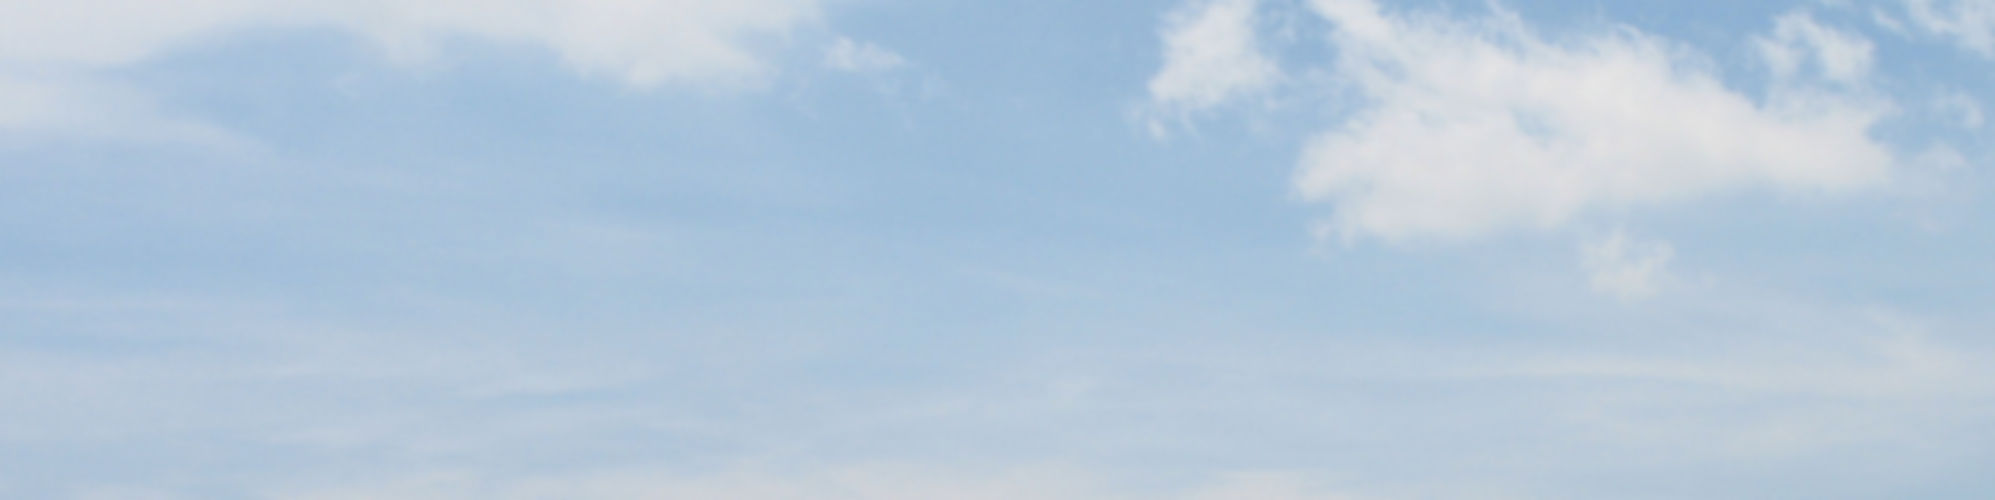
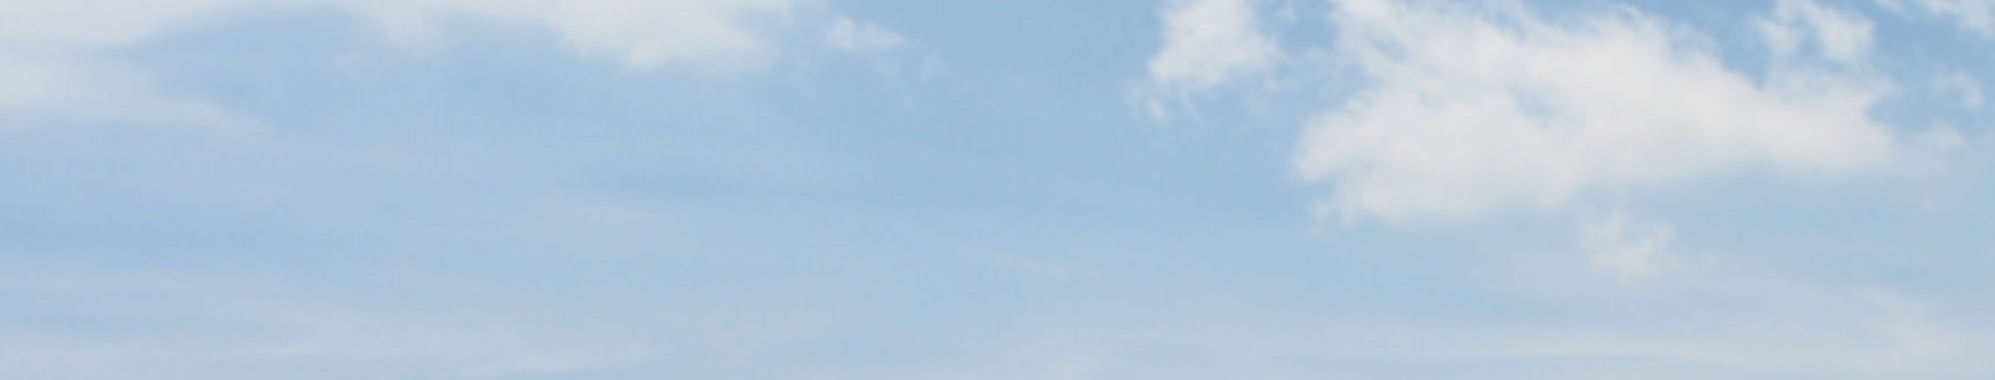
fix: Reduce image size, align title

diff --git a/index.min.html b/index.min.html
@@ -1,1 +1,1 @@
-<!DOCTYPE html> <html lang=en> <head> <meta http-equiv=Content-Type content="text/html; charset=utf-8"> <meta name=viewport content="width=device-width, initial-scale=1.0"> <meta name=description content="Falcon is a really fast, light-weight framework for building cloud APIs. It tries to do as little as possible while remaining highly effective."> <meta name=viewport content="width=device-width, initial-scale=1.0"> <link rel=icon type="image/x-icon" href="favicon.ico"> <link href="css/bootstrap.min.css" rel=stylesheet type="text/css"> <link href="css/styles.css" rel=stylesheet type="text/css"> <title> Falcon - The high-performance python WSGI framework </title> </head> <body> <a href="https://github.com/racker/falcon" target=_blank><img style="position: absolute; top: 0; left: 0; border: 0; z-index:10" src="https://s3.amazonaws.com/github/ribbons/forkme_left_red_aa0000.png" alt="Fork me on GitHub"></a> <div id=myCarousel class="carousel slide"> <div class=carousel-inner> <div class="active item"> <div class=cover> <img src="http://c420059.r59.cf1.rackcdn.com/assets/images/falcon.png" class=pull-right> </div> <div class=container> <div class=carousel-caption> <h1> Falcon </h1> <p class=lead> The high-performance cloud API framework. </p> </div> </div> </div> </div> </div> <div class=background-strip></div> <div id=nav class="container marketing"> <div class=row> <div class=span4> <img class=img-circle data-src="holder.js/140x140"> <h2> Design </h2> <p> Light, Fast, and Flexible </p> <p> <a class=btn href="#Features">View details »</a> </p> </div> <div class=span4> <img class=img-circle data-src="holder.js/140x140"> <h2> Benefits </h2> <p> Performance, Freedom and Reliability </p> <p> <a class=btn href="#Benefits">View details »</a> </p> </div> <div class=span4> <img class=img-circle data-src="holder.js/140x140"> <h2> Benchmarks </h2> <p> 30x More Requests </p> <p> <a class=btn href="#Metrics">View details »</a> </p> </div> </div> </div> <div class="container marketing"> <hr class=featurette-divider> <div class=featurette> <a id=Features></a> <img class="featurette-image pull-right" src=""> <h2 class=featurette-heading> Design </h2> <p class=lead> <strong>Light.</strong> Only the essentials are included, with <em>six</em> the only dependency beyond the standard library. We work to keep the code lean, making Falcon easier to test, optimize, and deploy. </p> <p class=lead> <strong>Fast.</strong> Cloud APIs need to turn around requests quickly, and make efficient use of hardware. Falcon processes requests several times faster than other popular web frameworks. </p> <p class=lead> <strong>Flexible.</strong> Falcon can be deployed in a variety of ways, depending on your needs. The framework speaks WSGI, and works great with Python 2.6 and 2.7, PyPy, and Python 3.3. There's no tight coupling with any async framework, leaving you free to mix-and-match what you need for your web service. </p> <p class=lead> <a href="https://github.com/racker/falcon/blob/master/README.md#install" alt='falcon web framework install'>Try the Falcon web framework</a>. </p> </div> <hr class=featurette-divider> <div class=featurette> <a id=Benefits></a> <img alt="" class="featurette-image pull-right" src=""> <h2 class=featurette-heading> Benefits </h2> <p class=lead> <strong>Performance.</strong> Unlike other Python web frameworks, Falcon won't bottleneck your API's performance. Many frameworks max out at serving simple "hello world" requests at a few thousand req/sec, while Falcon can easily serve up to <strong>30 times</strong> as many on the same hardware. Even Bottle, one of the fastest web frameworks we tested, takes at least twice as long to serve requests compared to Falcon. </p> <p class=lead> <strong>Freedom.</strong> Falcon isn't very opinionated. In other words, the framework leaves a lot of decisions and implementation details to you, the API developer, which means you will need to use your head a little more than other web frameworks, and probably write a little more code. On the other hand, this gives you a lot of freedom to <strong>customize and tune</strong> your implementation in order to create a solution that stands out from the crowd. </p> <p class=lead> <strong>Reliability.</strong> Falcon doesn't include a lot of cruft that is simply unnecessary when building web services. Less code and fewer dependencies means a smaller attack surface, lower memory usage, and fewer places for bugs to hide. Our private Jenkins build fails at anything less than <strong>100% code coverage</strong>, and we use <a href="https://travis-ci.org/racker/falcon">Travis CI</a> to keep ourselves honest. </p> <p class=lead> If you're still not convinced, check out this <a href="http://www.thepartyanimal-blog.org/wp-content/uploads/2012/04/pancake_bunny.jpg" target=_blank rel=nofollow>bunny</a> with a pancake on its head. </p> <p class=lead></p> </div> <hr class=featurette-divider> <div class=featurette> <a id=Metrics></a> <img class="featurette-image pull-right" src=""> <h2 class=featurette-heading> Benchmarks </h2> <p class=lead> <strong>Scenario.</strong> The benchmark acts as a WSGI server and performs a GET request directly on each framework's app. Each app parses a route template with a single embedded parameter, reads a query parameter and a header from the request data, sets an x-header on the response, and finally returns a 10 KiB plain-text body, randomly generated. </p> <p class=lead> <strong>Methodology.</strong> 50,000 iterations were run per trial, and the best time was taken for each framework over 3 trials. The order in which the frameworks were tested was randomized for each trial. Garbage collection was enabled as it would be in a production environment, and a full collection was forcefully triggered before each trial. Finally, results were calculated using the Decimal class, and rounded to the nearest whole number. </p> <p class=lead> <strong>Platform.</strong> The benchmark was executed with Python 2.7.3, running under Mac OS X 10.8.2 on a mid-2010 MBP (2.66 GHz Intel Core i7). </p> <p class=lead> <strong>Results.</strong> </p> <table class=benchmarks> <tr> <th> Framework </th> <th> req/sec </th> <th> μs/req </th> <th> Performance </th> </tr> <tr class=highlight> <td> Falcon with Cython </td> <td> 44,838 </td> <td> 22 </td> <td> 30x </td> </tr> <tr> <td> Falcon </td> <td> 36,638 </td> <td> 27 </td> <td> 24x </td> </tr> <tr> <td> Bottle </td> <td> 16,475 </td> <td> 61 </td> <td> 11x </td> </tr> <tr> <td> Werkzeug </td> <td> 8,742 </td> <td> 114 </td> <td> 6x </td> </tr> <tr> <td> Flask </td> <td> 4,309 </td> <td> 232 </td> <td> 3x </td> </tr> <tr> <td> Pecan </td> <td> 3,773 </td> <td> 265 </td> <td> 2x </td> </tr> <tr> <td> CherryPy </td> <td> 1,539 </td> <td> 650 </td> <td> 1x </td> </tr> </table> </div> <hr class=featurette-divider> <footer> <p class=pull-right> <a href="#">Back to top</a> </p> <p> © 2013 Rackspace Hosting. Falcon photo courtesy of <a href="https://commons.wikimedia.org/wiki/File:Brown-Falcon,-Vic,-3.1.2008.jpg">John O'Neill</a>. </p> </footer> </div> </body> </html>
+<!DOCTYPE html><html lang="en"><head><meta http-equiv="Content-Type" content="text/html;charset=utf-8"><meta name="viewport" content="width=device-width, initial-scale=1.0"><meta name="description" content="Falcon is a really fast, light-weight framework for building cloud APIs. It tries to do as little as possible while remaining highly effective."><meta name="viewport" content="width=device-width, initial-scale=1.0"><link rel="icon" type="image/x-icon" href="favicon.ico"><link href="css/bootstrap.min.css" rel="stylesheet" type="text/css"><link href="css/styles.css" rel="stylesheet" type="text/css"><title>Falcon - The high-performance python WSGI framework </title></head><body><a href="https://github.com/racker/falcon" target="_blank"><img style="position: absolute;top: 0;left: 0;border: 0;z-index:10" src="https://s3.amazonaws.com/github/ribbons/forkme_left_red_aa0000.png" alt="Fork me on GitHub"></a><div id="myCarousel" class="carousel slide"><div class="carousel-inner"><div class="active item"><div class="cover"><img src="img/falcon.png" class="pull-right"></div><div class="container"><div class="carousel-caption"><h1> Falcon </h1><p class="lead"> The high-performance cloud API framework. </p></div></div></div></div></div><div class="background-strip"></div><div id="nav" class="container marketing"><div class="row"><div class="span4"><img class="img-circle" data-src="holder.js/140x140"><h2> Design </h2><p> Light, Fast, and Flexible </p><p><a class="btn" href="#Features">View details »</a></p></div><div class="span4"><img class="img-circle" data-src="holder.js/140x140"><h2> Benefits </h2><p> Performance, Freedom and Reliability </p><p><a class="btn" href="#Benefits">View details »</a></p></div><div class="span4"><img class="img-circle" data-src="holder.js/140x140"><h2> Benchmarks </h2><p> 30x More Requests </p><p><a class="btn" href="#Metrics">View details »</a></p></div></div></div><div class="container marketing"><hr class="featurette-divider"><div class="featurette"><a id="Features"></a><img class="featurette-image pull-right" src=""><h2 class="featurette-heading"> Design </h2><p class="lead"><strong>Light.</strong> Only the essentials are included, with <em>six</em> the only dependency beyond the standard library. We work to keep the code lean, making Falcon easier to test, optimize, and deploy. </p><p class="lead"><strong>Fast.</strong> Cloud APIs need to turn around requests quickly, and make efficient use of hardware. Falcon processes requests several times faster than other popular web frameworks. </p><p class="lead"><strong>Flexible.</strong> Falcon can be deployed in a variety of ways, depending on your needs. The framework speaks WSGI, and works great with Python 2.6 and 2.7, PyPy, and Python 3.3. There's no tight coupling with any async framework, leaving you free to mix-and-match what you need for your web service. </p><p class="lead"><a href="https://github.com/racker/falcon/blob/master/README.md#install" alt='falcon web framework install'>Try the Falcon web framework</a>. </p></div><hr class="featurette-divider"><div class="featurette"><a id="Benefits"></a><img alt="" class="featurette-image pull-right" src=""><h2 class="featurette-heading"> Benefits </h2><p class="lead"><strong>Performance.</strong> Unlike other Python web frameworks, Falcon won't bottleneck your API's performance under highly concurrent workloads. Even when requests are serialized, many frameworks max out at serving simple "hello world" requests at a few thousand req/sec, while Falcon can easily serve up to <strong>30 times</strong> as many on the same hardware. Even Bottle, one of the fastest web frameworks we tested, takes at least twice as long to serve requests compared to Falcon. </p><p class="lead"><strong>Freedom.</strong> Falcon isn't very opinionated. In other words, the framework leaves a lot of decisions and implementation details to you, the API developer, which means you will need to use your head a little more than other web frameworks, and probably write a little more code. On the other hand, this gives you a lot of freedom to <strong>customize and tune</strong> your implementation in order to create a solution that stands out from the crowd. </p><p class="lead"><strong>Reliability.</strong> Falcon doesn't include a lot of cruft that is simply unnecessary when building web services. Less code and fewer dependencies means a smaller attack surface, lower memory usage, and fewer places for bugs to hide. Our private Jenkins build fails at anything less than <strong>100% code coverage</strong>, and we use <a href="https://travis-ci.org/racker/falcon">Travis CI</a> to keep ourselves honest. </p><p class="lead"> If you're still not convinced, check out this <a href="http://www.thepartyanimal-blog.org/wp-content/uploads/2012/04/pancake_bunny.jpg" target="_blank" rel="nofollow">bunny</a> with a pancake on its head. </p><p class="lead"></p></div><hr class="featurette-divider"><div class="featurette"><a id="Metrics"></a><img class="featurette-image pull-right" src=""><h2 class="featurette-heading"> Benchmarks </h2><p class="lead"><strong>Scenario.</strong> The benchmark acts as a WSGI server and performs a GET request directly on each framework's app. Each app parses a route template with a single embedded parameter, reads a query parameter and a header from the request data, sets an x-header on the response, and finally returns a 10 KiB plain-text body, randomly generated. </p><p class="lead"><strong>Methodology.</strong> 50,000 iterations were run per trial, and the best time was taken for each framework over 3 trials. The order in which the frameworks were tested was randomized for each trial. Garbage collection was enabled as it would be in a production environment, and a full collection was forcefully triggered before each trial. Finally, results were calculated using the Decimal class, and rounded to the nearest whole number. </p><p class="lead"><strong>Platform.</strong> The benchmark was executed with Python 2.7.3, running under Mac OS X 10.8.2 on a mid-2010 MBP (2.66 GHz Intel Core i7). </p><p class="lead"><strong>Results.</strong></p><table class="benchmarks"><tr><th> Framework </th><th> req/sec </th><th> μs/req </th><th> Performance </th></tr><tr class="highlight"><td> Falcon with Cython </td><td> 44,838 </td><td> 22 </td><td> 30x </td></tr><tr><td> Falcon </td><td> 36,638 </td><td> 27 </td><td> 24x </td></tr><tr><td> Bottle </td><td> 16,475 </td><td> 61 </td><td> 11x </td></tr><tr><td> Werkzeug </td><td> 8,742 </td><td> 114 </td><td> 6x </td></tr><tr><td> Flask </td><td> 4,309 </td><td> 232 </td><td> 3x </td></tr><tr><td> Pecan </td><td> 3,773 </td><td> 265 </td><td> 2x </td></tr><tr><td> CherryPy </td><td> 1,539 </td><td> 650 </td><td> 1x </td></tr></table></div><hr class="featurette-divider"><footer><p class="pull-right"><a href="#">Back to top</a></p><p> © 2013 Rackspace Hosting. Falcon photo courtesy of <a href="https://commons.wikimedia.org/wiki/File:Brown-Falcon,-Vic,-3.1.2008.jpg">John O'Neill</a>. </p></footer></div><!-- <script src="js/jquery.js" type="text/javascript"></script><script src="js/bootstrap.min.js" type="text/javascript"></script> --></body></html>

diff --git a/css/styles.css b/css/styles.css
@@ -1,1 +1,1 @@
-@font-face{font-family:'Amethysta';font-style:normal;font-weight:400;src:local(Amethysta),local(Amethysta-Regular),url(http://c420059.r59.cf1.rackcdn.com/assets/css/Amethysta-Regular.ttf) format("truetype")}@font-face{font-family:'Droid Sans';font-style:normal;font-weight:400;src:local('Droid Sans'),local(DroidSans),url(http://c420059.r59.cf1.rackcdn.com/assets/css/DroidSans.ttf) format("truetype")}@font-face{font-family:'Droid Sans';font-style:normal;font-weight:700;src:local('Droid Sans Bold'),local(DroidSans-Bold),url(http://c420059.r59.cf1.rackcdn.com/assets/css/DroidSans-Bold.ttf) format("truetype")}body{font-family:"Droid Sans";background-color:#fefefe}/* Carousel base class */.carousel{margin-bottom:0}.carousel .container{position:relative;z-index:9}.carousel-control{height:80px;margin-top:0;font-size:120px;text-shadow:0 1px 1px rgba(0,0,0,.4);background-color:transparent;border:0}.carousel .item{height:500px}.carousel .cover{position:absolute;top:0;left:0;min-width:100%;height:500px;background-color:#3e3e3e;background-image:url(http://c420059.r59.cf1.rackcdn.com/assets/images/sky.jpg)}.carousel-caption{background-color:transparent;position:static;max-width:550px;padding:0 20px;margin-top:200px}.carousel-caption h1,.carousel-caption .lead{margin:0;line-height:1.25;color:#fefefe;text-shadow:0 1px 1px rgba(0,0,0,0.7)}.carousel-caption h1{font-family:"Amethysta";font-size:120px}.carousel-caption .btn{margin-top:10px}.background-strip{position:absolute;z-index:-1;height:220px;width:100%;padding:0;margin:0;/* IE10 Consumer Preview */background-image:-ms-linear-gradient(top,#FFF 0%,#DCDDE2 100%);/* Mozilla Firefox */background-image:-moz-linear-gradient(top,#FFF 0%,#DCDDE2 100%);/* Opera */background-image:-o-linear-gradient(top,#FFF 0%,#DCDDE2 100%);/* Webkit (Safari/Chrome 10) */background-image:-webkit-gradient(linear,left top,left bottom,color-stop(0,#FFF),color-stop(1,#DCDDE2));/* Webkit (Chrome 11+) */background-image:-webkit-linear-gradient(top,#FFF 0%,#DCDDE2 100%);/* W3C Markup, IE10 Release Preview */background-image:linear-gradient(to bottom,#FFF 0%,#DCDDE2 100%)}#nav{padding-top:25px}.featurette-divider{margin-top:160px;border:/* Space out the Bootstrap <hr> more */none}.featurette{/*padding-top:20px;*//* Vertically center images part 1: add padding above and below text. */overflow:/* Vertically center images part 2: clear their floats. */hidden}.featurette-image{margin-top:/* Vertically center images part 3: negative margin up the image the same amount of the padding to center it. */-120px}/* Give some space on the sides of the floated elements so text doesn't run right into it. */.featurette-image.pull-left{margin-right:40px}.featurette-image.pull-right{margin-left:40px}/* Thin out the marketing headings */.featurette-heading{font-size:50px;font-weight:300;/*font-family:"Amethysta";*/line-height:1;letter-spacing:-1px}.featurette h2{padding-bottom:8px}table.benchmarks{border-collapse:1;border:1px solid #000}table.benchmarks tr td{width:100px}table.benchmarks tr th,table.benchmarks tr td{text-align:right;border:1px solid #000;padding:10px}table.benchmarks tr.highlight td{background-color:#eee5c7}table.benchmarks th{background-color:#DCDDE2;/* IE10 Consumer Preview */background-image:-ms-linear-gradient(top,#FFF 0%,#DCDDE2 100%);/* Mozilla Firefox */background-image:-moz-linear-gradient(top,#FFF 0%,#DCDDE2 100%);/* Opera */background-image:-o-linear-gradient(top,#FFF 0%,#DCDDE2 100%);/* Webkit (Safari/Chrome 10) */background-image:-webkit-gradient(linear,left top,left bottom,color-stop(0,#FFF),color-stop(1,#DCDDE2));/* Webkit (Chrome 11+) */background-image:-webkit-linear-gradient(top,#FFF 0%,#DCDDE2 100%);/* W3C Markup, IE10 Release Preview */background-image:linear-gradient(to bottom,#FFF 0%,#DCDDE2 100%)}
+@font-face{font-family:'Amethysta';font-style:normal;font-weight:400;src:local(Amethysta),local(Amethysta-Regular),url(http://c420059.r59.cf1.rackcdn.com/assets/css/Amethysta-Regular.ttf) format("truetype")}@font-face{font-family:'Droid Sans';font-style:normal;font-weight:400;src:local('Droid Sans'),local(DroidSans),url(http://c420059.r59.cf1.rackcdn.com/assets/css/DroidSans.ttf) format("truetype")}@font-face{font-family:'Droid Sans';font-style:normal;font-weight:700;src:local('Droid Sans Bold'),local(DroidSans-Bold),url(http://c420059.r59.cf1.rackcdn.com/assets/css/DroidSans-Bold.ttf) format("truetype")}body{font-family:"Droid Sans";background-color:#fefefe}/* Carousel base class */.carousel{margin-bottom:0}.carousel .container{position:relative;z-index:9}.carousel-control{height:80px;margin-top:0;font-size:120px;text-shadow:0 1px 1px rgba(0,0,0,.4);background-color:transparent;border:0}.carousel .item{height:380px}.carousel .cover{position:absolute;top:0;left:0;min-width:100%;height:380px;background-color:#3e3e3e;background-image:url(../img/sky.jpg)}.carousel-caption{background-color:transparent;position:static;max-width:550px;padding:0;margin-top:130px;}.carousel-caption h1,.carousel-caption .lead{margin:0;line-height:1.25;color:#fefefe;text-shadow:0 1px 1px rgba(0,0,0,0.7)}.carousel-caption h1{font-family:"Amethysta";font-size:120px}.carousel-caption .btn{margin-top:10px}.background-strip{position:absolute;z-index:-1;height:220px;width:100%;padding:0;margin:0;/* IE10 Consumer Preview */background-image:-ms-linear-gradient(top,#FFF 0%,#DCDDE2 100%);/* Mozilla Firefox */background-image:-moz-linear-gradient(top,#FFF 0%,#DCDDE2 100%);/* Opera */background-image:-o-linear-gradient(top,#FFF 0%,#DCDDE2 100%);/* Webkit (Safari/Chrome 10) */background-image:-webkit-gradient(linear,left top,left bottom,color-stop(0,#FFF),color-stop(1,#DCDDE2));/* Webkit (Chrome 11+) */background-image:-webkit-linear-gradient(top,#FFF 0%,#DCDDE2 100%);/* W3C Markup, IE10 Release Preview */background-image:linear-gradient(to bottom,#FFF 0%,#DCDDE2 100%)}#nav{padding-top:25px}.featurette-divider{margin-top:160px;border:/* Space out the Bootstrap <hr> more */none}.featurette{/*padding-top:20px;*//* Vertically center images part 1: add padding above and below text. */overflow:/* Vertically center images part 2: clear their floats. */hidden}.featurette-image{margin-top:/* Vertically center images part 3: negative margin up the image the same amount of the padding to center it. */-120px}/* Give some space on the sides of the floated elements so text doesn't run right into it. */.featurette-image.pull-left{margin-right:40px}.featurette-image.pull-right{margin-left:40px}/* Thin out the marketing headings */.featurette-heading{font-size:50px;font-weight:300;/*font-family:"Amethysta";*/line-height:1;letter-spacing:-1px}.featurette h2{padding-bottom:8px}table.benchmarks{border-collapse:1;border:1px solid #000}table.benchmarks tr td{width:100px}table.benchmarks tr th,table.benchmarks tr td{text-align:right;border:1px solid #000;padding:10px}table.benchmarks tr.highlight td{background-color:#eee5c7}table.benchmarks th{background-color:#DCDDE2;/* IE10 Consumer Preview */background-image:-ms-linear-gradient(top,#FFF 0%,#DCDDE2 100%);/* Mozilla Firefox */background-image:-moz-linear-gradient(top,#FFF 0%,#DCDDE2 100%);/* Opera */background-image:-o-linear-gradient(top,#FFF 0%,#DCDDE2 100%);/* Webkit (Safari/Chrome 10) */background-image:-webkit-gradient(linear,left top,left bottom,color-stop(0,#FFF),color-stop(1,#DCDDE2));/* Webkit (Chrome 11+) */background-image:-webkit-linear-gradient(top,#FFF 0%,#DCDDE2 100%);/* W3C Markup, IE10 Release Preview */background-image:linear-gradient(to bottom,#FFF 0%,#DCDDE2 100%)}

diff --git a/index.html b/index.html
@@ -20,7 +20,7 @@
             <div class="carousel-inner">
                 <div class="active item">
                     <div class="cover">
-                        <img src="http://c420059.r59.cf1.rackcdn.com/assets/images/falcon.png" class="pull-right">
+                        <img src="img/falcon.png" class="pull-right">
                     </div>
                     <div class="container">
                         <div class="carousel-caption">
